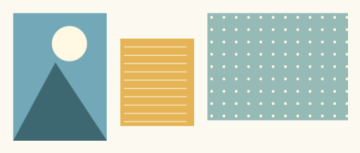
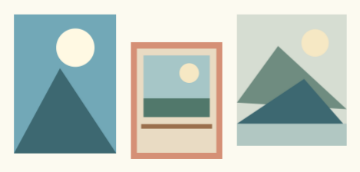
Illustrate graphic methods with focal objects and real photo types

diff --git a/src/creation-library/techniques.js b/src/creation-library/techniques.js
@@ -33,12 +33,13 @@ export function describeTechnique(id){
  const names=methodFields(method),help={...fieldHelp,...titleHelp,...(method.recipe==='accent'?{count:'数字点缀候选数量 1–24；指定 positions 时以其长度为准；避让可能减少实际数量',widthMm:'点缀组局部范围宽度，毫米；不会缩放实体',heightMm:'点缀组局部范围高度，毫米；不会缩放实体'}:{}),...(method.recipe==='tape'?{widthMm:'胶带摆放范围宽度，毫米；不会缩放实体',heightMm:'胶带摆放范围高度，毫米；不会缩放实体'}:{}),corePlace:'可选窗芯位置，使用 layer.update.place 的完整结构。传入时显示并定位窗芯；不传则隐藏保留。位置按裁下窗芯的外接框定位，保留原图裁切来源',strip:'已经放置并对准孔位的真实纸条节点 ID；不缩放或自动拉长',through:'按穿行顺序给 2–16 项 {target,sideAfter:"front"|"back",region? ,window?}；region 用 material.window 的 Region 开新孔，window 引用已有孔 ID，二选一。新孔窗芯隐藏保留；输出报告列出替代后的框与窗芯 ID',...(method.recipe==='write'?{box:'素材局部可写区域 [x,y,width,height]，各值为比例；需先观察图片，避开重要图案',text:'完整正文，最多 500 字；不截断，实际高度需看预览'}:{})};
  if(method.id==='magazine-offset')help.caption='主图下方的可选短图注，仅对应 aliases 首项；不自动编造';
  const example=techniqueExample(method);
- return {...method,parameters:Object.fromEntries(names.map(k=>[k,{description:help[k],required:k==='id'||required[method.recipe].includes(k)||(k==='corePlace'&&method.defaults.reuseCore===true)}])),geometryOptions:advancedShapeControls(method.defaults.shape||method.defaults.pattern),example:{materials:exampleMaterials.filter(a=>(example.parameters.aliases||[]).includes(a.alias)||example.before.some(op=>op.asset===a.alias)),prepare:example.before,note:'示例别名和已有节点来自本例准备步骤；实际调用替换成本次素材和节点。'},tool:{name:'creation_recipe',arguments:{kind:'technique',recipeId:id,transactionId:'unique-id',baseSceneRevision:'当前版本',parameters:example.parameters}}};
+ return {...method,parameters:Object.fromEntries(names.map(k=>[k,{description:help[k],required:k==='id'||required[method.recipe].includes(k)||(k==='corePlace'&&method.defaults.reuseCore===true)||(method.id==='graphic-route'&&k==='waypoints')}])),geometryOptions:advancedShapeControls(method.defaults.shape||method.defaults.pattern),example:{materials:exampleMaterials.filter(a=>(example.parameters.aliases||[]).includes(a.alias)||example.before.some(op=>op.asset===a.alias)),prepare:example.before,note:'示例别名和已有节点来自本例准备步骤；实际调用替换成本次素材和节点。'},tool:{name:'creation_recipe',arguments:{kind:'technique',recipeId:id,transactionId:'unique-id',baseSceneRevision:'当前版本',parameters:example.parameters}}};
 }
 function validate(method,params){
  libraryID(params.id);const allowed=new Set(methodFields(method));
  for(const key of Object.keys(params))if(!allowed.has(key))throw Error('该方法不支持参数：'+key);
  for(const key of required[method.recipe])if(params[key]===undefined)throw Error('缺少参数：'+key);
+ if(method.id==='graphic-route'&&params.waypoints===undefined)throw Error('转折阅读线需要两个以上真实焦点的 waypoints');
  if(method.defaults.reuseCore&&!params.corePlace)throw Error('复用窗芯需要给出 corePlace');
  for(const key of ['widthMm','heightMm','fontSizePt','strokeWidthMm','lengthMm','periodMm'])if(params[key]!==undefined&&(!Number.isFinite(params[key])||params[key]<=0||params[key]>1000))throw Error('尺寸参数无效：'+key);
  for(const key of ['gapMm','amountMm','depthMm'])if(params[key]!==undefined&&(!Number.isFinite(params[key])||params[key]<0||params[key]>200))throw Error('间距参数无效：'+key);
@@ -54,6 +55,7 @@ function validate(method,params){
  if(params.pattern!==undefined&&!['plain','dots','stripes','grid'].includes(params.pattern))throw Error('未知背景花纹');
  if(params.items&&(!Array.isArray(params.items)||!params.items.length||params.items.length>12||params.items.some(t=>typeof t!=='string'||!t.trim()||t.length>180)))throw Error('条目格式无效');
  if(params.aliases&&(!Array.isArray(params.aliases)||!params.aliases.length||params.aliases.length>8||new Set(params.aliases).size!==params.aliases.length))throw Error('素材列表无效或重复');
+ if(params.waypoints!==undefined&&(!Array.isArray(params.waypoints)||params.waypoints.length<2||params.waypoints.length>6||params.waypoints.some(point=>!Array.isArray(point)||point.length!==2||point.some(n=>!Number.isFinite(n)||n<0||n>1))))throw Error('阅读线路点须为 2–6 个区域内比例坐标');
  if(params.parts!==undefined&&(!Number.isInteger(params.parts)||params.parts<2||params.parts>8))throw Error('分裁数量为 2–8');
  if(params.gapRatio!==undefined&&(!Number.isFinite(params.gapRatio)||params.gapRatio<0||params.gapRatio>.05))throw Error('余料间隔比例为 0–0.05');
 }

diff --git a/src/creation-library/examples.js b/src/creation-library/examples.js
@@ -5,7 +5,9 @@ export const exampleMaterials=[
  {id:'example-tape',alias:'m4',title:'示意胶带',kind:'tape',role:'connector',physicalWidthMM:100,physicalHeightMM:6,tapeAxis:'horizontal',supply:{quantity:1}},
  {id:'example-ticket',alias:'m5',title:'示意票根（非真实票据）',kind:'ticket',role:'secondary',physicalWidthMM:22,physicalHeightMM:46,supply:{quantity:1}},
  {id:'example-note',alias:'m6',title:'示意空白便签',kind:'note',role:'information',physicalWidthMM:42,physicalHeightMM:32,supply:{quantity:1}},
- {id:'example-strip',alias:'m7',title:'示意纸条',kind:'paper',role:'connector',physicalWidthMM:60,physicalHeightMM:4,supply:{quantity:1}}
+ {id:'example-strip',alias:'m7',title:'示意纸条',kind:'paper',role:'connector',physicalWidthMM:60,physicalHeightMM:4,supply:{quantity:1}},
+ {id:'example-photo-two',alias:'m8',title:'示意窗景照片',kind:'photo',role:'secondary',physicalWidthMM:25,physicalHeightMM:32,supply:{quantity:1}},
+ {id:'example-photo-three',alias:'m9',title:'示意山景照片',kind:'photo',role:'secondary',physicalWidthMM:30,physicalHeightMM:36,supply:{quantity:1}}
 ];
 export function techniqueExample(method){
  const p={id:'demo',at:[72,88]},before=[];
@@ -13,7 +15,24 @@ export function techniqueExample(method){
  if(method.recipe==='accent'&&method.defaults.motif==='materials')p.aliases=['m1','m2'];
  if(method.recipe==='film'){p.aliases=['m1','m2','m3'];p.at=[74,88];}
  if(method.recipe==='materials'){p.aliases=['m1','m2','m3'];if(method.defaults.captionPosition)p.caption='一片颜色，一段小记。';}
+ if(method.skill==='photo-story'&&['materials','film'].includes(method.recipe))p.aliases=['m1','m8','m9'];
  if(method.id==='magazine-offset'){p.aliases=['m1','m2','m5'];p.caption='示意图注';}
+ if(method.id==='graphic-loop'){
+  p.at=[73,78];p.widthMm=17;p.heightMm=17;
+  before.push({op:'material.add',id:'photo',asset:'m1',place:{reference:'page',at:[70,88],unit:'mm'}});
+ }
+ if(method.id==='graphic-route'){
+  p.widthMm=70;p.heightMm=38;p.waypoints=[[.34,.26],[.69,.62]];
+  before.push({op:'material.add',id:'photo',asset:'m1',place:{reference:'page',at:[49,82],unit:'mm'}},{op:'material.add',id:'card',asset:'m2',place:{reference:'page',at:[96,96],unit:'mm'}});
+ }
+ if(method.id==='graphic-corner'){
+  p.at=[73,88];p.widthMm=50;p.heightMm=40;
+  before.push({op:'material.add',id:'note',asset:'m6',place:{reference:'page',at:[74,81],unit:'mm'}});
+ }
+ if(method.id==='graphic-rays'){
+  p.widthMm=34;p.heightMm=34;
+  before.push({op:'graphic.add',id:'focal',geometry:{kind:'star',options:{points:5,innerRatio:.5}},place:{reference:'page',at:[72,88],unit:'mm'},size:{width:7,height:7,unit:'mm'},style:{fill:'#E6B45E',stroke:'#3D6871',strokeWidthMm:.25}});
+ }
  if(method.recipe==='tape'){
   p.aliases=['m4'];
   if(method.id==='tape-fix')before.push({op:'material.add',id:'photo',asset:'m1',place:{reference:'page',at:[72,107],unit:'mm'}});

diff --git a/tests/creation-library.test.js b/tests/creation-library.test.js
@@ -114,6 +114,22 @@ test('quiet pair stays spaced apart while layered diagonal is connected',()=>{
  const a=exampleMaterials[0],b=exampleMaterials[1],dx=Math.abs(quiet[1].place.at[0]-quiet[0].place.at[0]);
  assert.ok(dx>=(a.physicalWidthMM+b.physicalWidthMM)/2);
 });
+test('graphic lesson examples show their focal objects and route requires real waypoints',()=>{
+ const route=describeTechnique('graphic-route');
+ assert.equal(route.parameters.waypoints.required,true);
+ assert.equal(route.example.prepare.filter(op=>op.op==='material.add').length,2);
+ assert.equal(route.tool.arguments.parameters.waypoints.length,2);
+ assert.throws(()=>compileTechnique({methodId:'graphic-route',parameters:{id:'route'}}),/需要两个以上真实焦点/);
+ assert.throws(()=>compileTechnique({methodId:'graphic-route',parameters:{id:'route',waypoints:[[.2,.2],[1.2,.8]]}}),/区域内比例坐标/);
+ for(const id of ['graphic-loop','graphic-corner','graphic-rays'])assert.ok(describeTechnique(id).example.prepare.length,id+' missing focal example');
+});
+test('photo-story examples use photographs for every material slot',()=>{
+ for(const method of techniqueCatalog.methods.filter(m=>m.skill==='photo-story'&&['materials','film'].includes(m.recipe))){
+  const aliases=techniqueExample(method).parameters.aliases;
+  assert.ok(aliases.length>=2,method.id);
+  for(const alias of aliases)assert.equal(exampleMaterials.find(asset=>asset.alias===alias)?.kind,'photo',method.id+'/'+alias);
+ }
+});
 test('template ranking is deterministic and does not mutate real material dimensions',()=>{
  const input=structuredClone(exampleMaterials),args={materials:input,paper:{width:148,height:210},limit:5};
  assert.deepEqual(rankTemplates(args),rankTemplates(args));assert.deepEqual(input,exampleMaterials);

diff --git a/docs/CREATION_LIBRARY_AUDIT.md b/docs/CREATION_LIBRARY_AUDIT.md
@@ -183,3 +183,9 @@
 - “邮戳圈记”原示意被通用标题工具拉成长椭圆，和圆形印记的介绍不符。现在按短标签内容给圆形范围，文字居中；可选注释放在圈外，过长文字会明确报错。已查看重新生成的圆形示意。
 - “对角层次”原先三件素材彼此分离，像等距阶梯。现在按前一件的真实尺寸逐件接触和叠放；“留白双件”继续使用分开的对角排布，两种方法不会互相改变。已查看重新生成的叠放示意，真实素材没有缩放。
 - 完整测试 1956 项通过、1 项跳过、0 失败；UI smoke、React 流程及 7 视口路由通过。150 张示意图清单保持一致，只有上述两张方法图发生变化。本轮没有实体设备或远程模型创作验收，也没有合并或部署。
+
+## 手绘图形与照片方法复核
+
+- “圈注细节”“转折阅读线”“角线框选”“放射强调”原示意只有孤立线条，未展示与实际内容的关系。现有示例用照片细节、两件素材、便签和小焦点作为准备步骤，重新生成的四张图已逐一查看。阅读线的工具现在要求 2–6 个区域内比例路点，拒绝缺少落点或越界的输入；其他图形方法仍可独立调整位置、宽高、颜色与线宽。
+- 照片专题原示例把卡片和花纹纸作为第二、第三张“照片”。现在使用三张不同尺寸的合成照片素材，横排、矩阵、错落、图注与胶片五张示意已逐一查看；真实材料仍按毫米尺寸放置，没有被拉伸。合成照片只用于解释工具，不冒充用户真实素材案例。
+- 模板仍为 78 个，未增加或解析后续模板；方法仍为 72 个，示意图总数仍为 150。完整测试 1958 项通过、1 项跳过、0 失败；UI smoke、React 流程和 7 视口路由通过。本轮未进行远程模型自主创作或实体设备验收。
